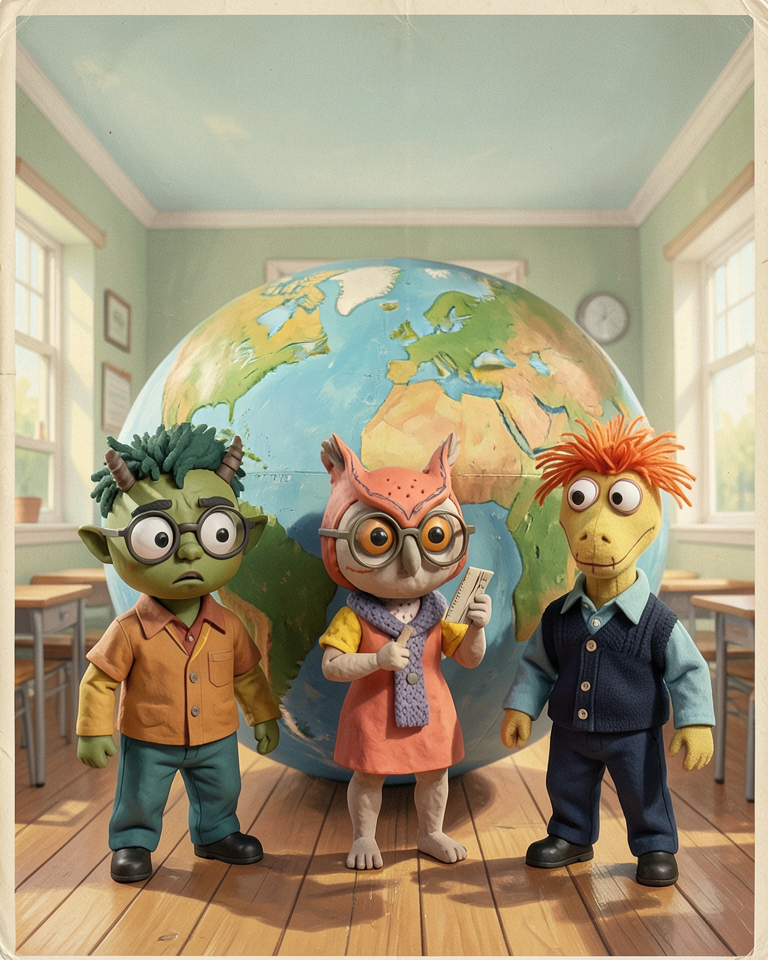
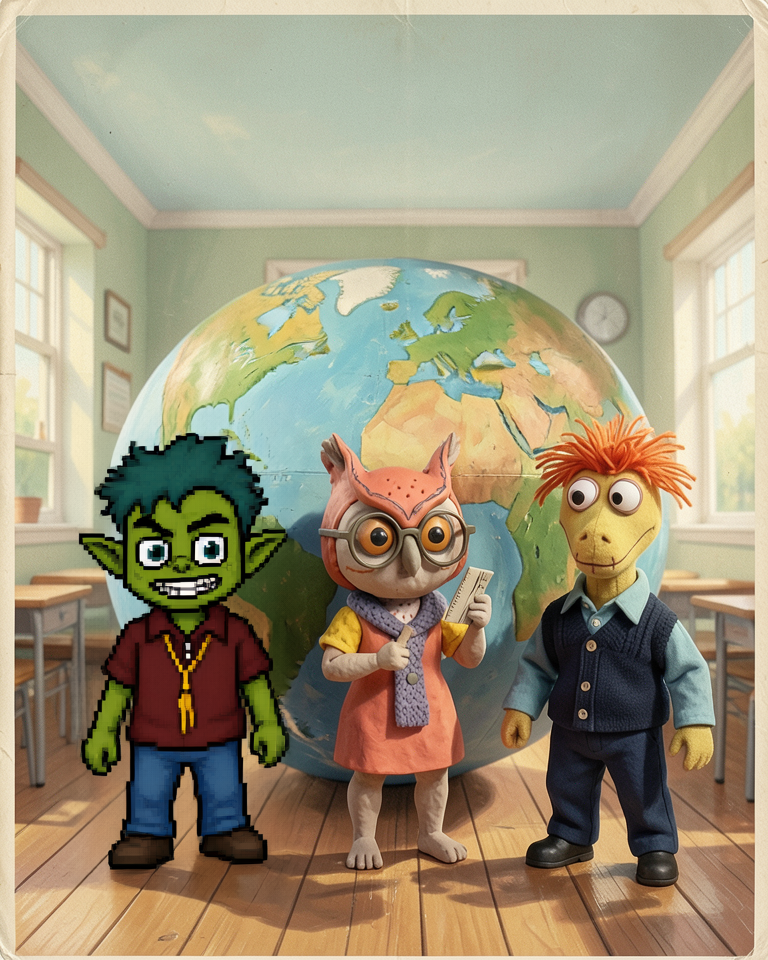
Fix Book 01 front cover Chester to match 16-bit pixel character

Changed region(s): [[0.0938, 0.4375, 0.375, 0.9375]]

diff --git a/fever-dreams/books/01-the-very-big-world-problem/index.html b/fever-dreams/books/01-the-very-big-world-problem/index.html
@@ -766,11 +766,11 @@
     <aside class="director-panel" aria-label="Director metadata">
       <div class="dir-head">
         <strong>Front Cover</strong>
-        <span>flux2-klein-4b • seed 335271 • 24.3s</span>
+        <span>qwen-image-2.1-turbo • seed 598828 • 47.0s</span>
       </div>
       <div class="dir-row"><b>Cast:</b> Chester Antialiased, Marisol Brittle, Winston Crumb</div>
       <div class="dir-row"><b>Angle:</b> Heroic slightly low-angle three-quarter composition</div>
-      <div class="dir-row"><b>Refs:</b> 01-chester-antialiased_v0.png, 03-marisol-brittle_v0.png, 06-winston-crumb_v0.png</div>
+      <div class="dir-row"><b>Refs:</b> original.png, 01-chester-antialiased_v0.png, p20_chester_fullbody_ref.png</div>
       <details class="dir-prompt">
         <summary>Prompt &amp; Re-roll Command</summary>
         <p>1950s Little Golden Book mid-century children&#x27;s storybook illustration background, lush hand-painted matte gouache and tempera brushwork, warm nostalgic mid-century color palette (mustard gold, dusty teal, coral red, sage green, warm cream), subtle vintage printed picture-book paper grain, charmingly earnest 1950s suburban and high-school Americana environment, mixed-media Gumball-style visual contrast where the bizarre multi-medium characters physically inhabit and cast natural shadows inside the painted 1950s storybook world, crisp storytelling composition, zero text, zero speech bubbles, zero watermarks. Classic Little Golden Book front cover hero illustration: leave clean uncluttered painted sky or backdrop breathing room along the top 22% of the frame for a printed book title banner, center the characters dynamically in the lower two-thirds, absolutely NO letters, NO title text, and NO border frame baked into the artwork. Image 1 is Chester Antialiased (16-Bit Pixel Sprite), who MUST keep their exact face, silhouette, colors, and outfit from Image 1 and remains a crisp 16-bit retro pixel-art video game sprite with chunky visible square pixels and dark pixel outlines, composited right into the painted world. Image 2 is Marisol Brittle (Stop-Motion Clay), who MUST keep their exact face, silhouette, colors, and outfit from Image 2 and remains a lumpy handmade stop-motion plasticine clay figurine with visible thumbprints and sculpted matte clay texture. Image 3 is Winston Crumb (Fuzzy Felt Puppet), who MUST keep their exact face, silhouette, colors, and outfit from Image 3 and remains a tangible handmade fuzzy felt and fleece puppet with visible fabric fibers, stitched seams, yarn hair, and button or plastic eyes. Camera angle and framing: Heroic slightly low-angle three-quarter composition. Scene action: Chester Antialiased, Marisol Brittle, and Winston Crumb stand shoulder-to-shoulder in front of a massive, slightly lopsided globe. Chester looks nervous with wide eyes, Marisol holds a tiny ruler with an air of authority, and Winston looks bewildered. The background is a soft-focus 1950s classroom with gouache painted wooden floors. Lighting and mood: Warm sunlit 1950s picture-book afternoon glow. Every character from the reference images appears clearly recognizable, full of expressive body language, interacting naturally with the painted 1950s environment. No text, no words, no captions.</p>
